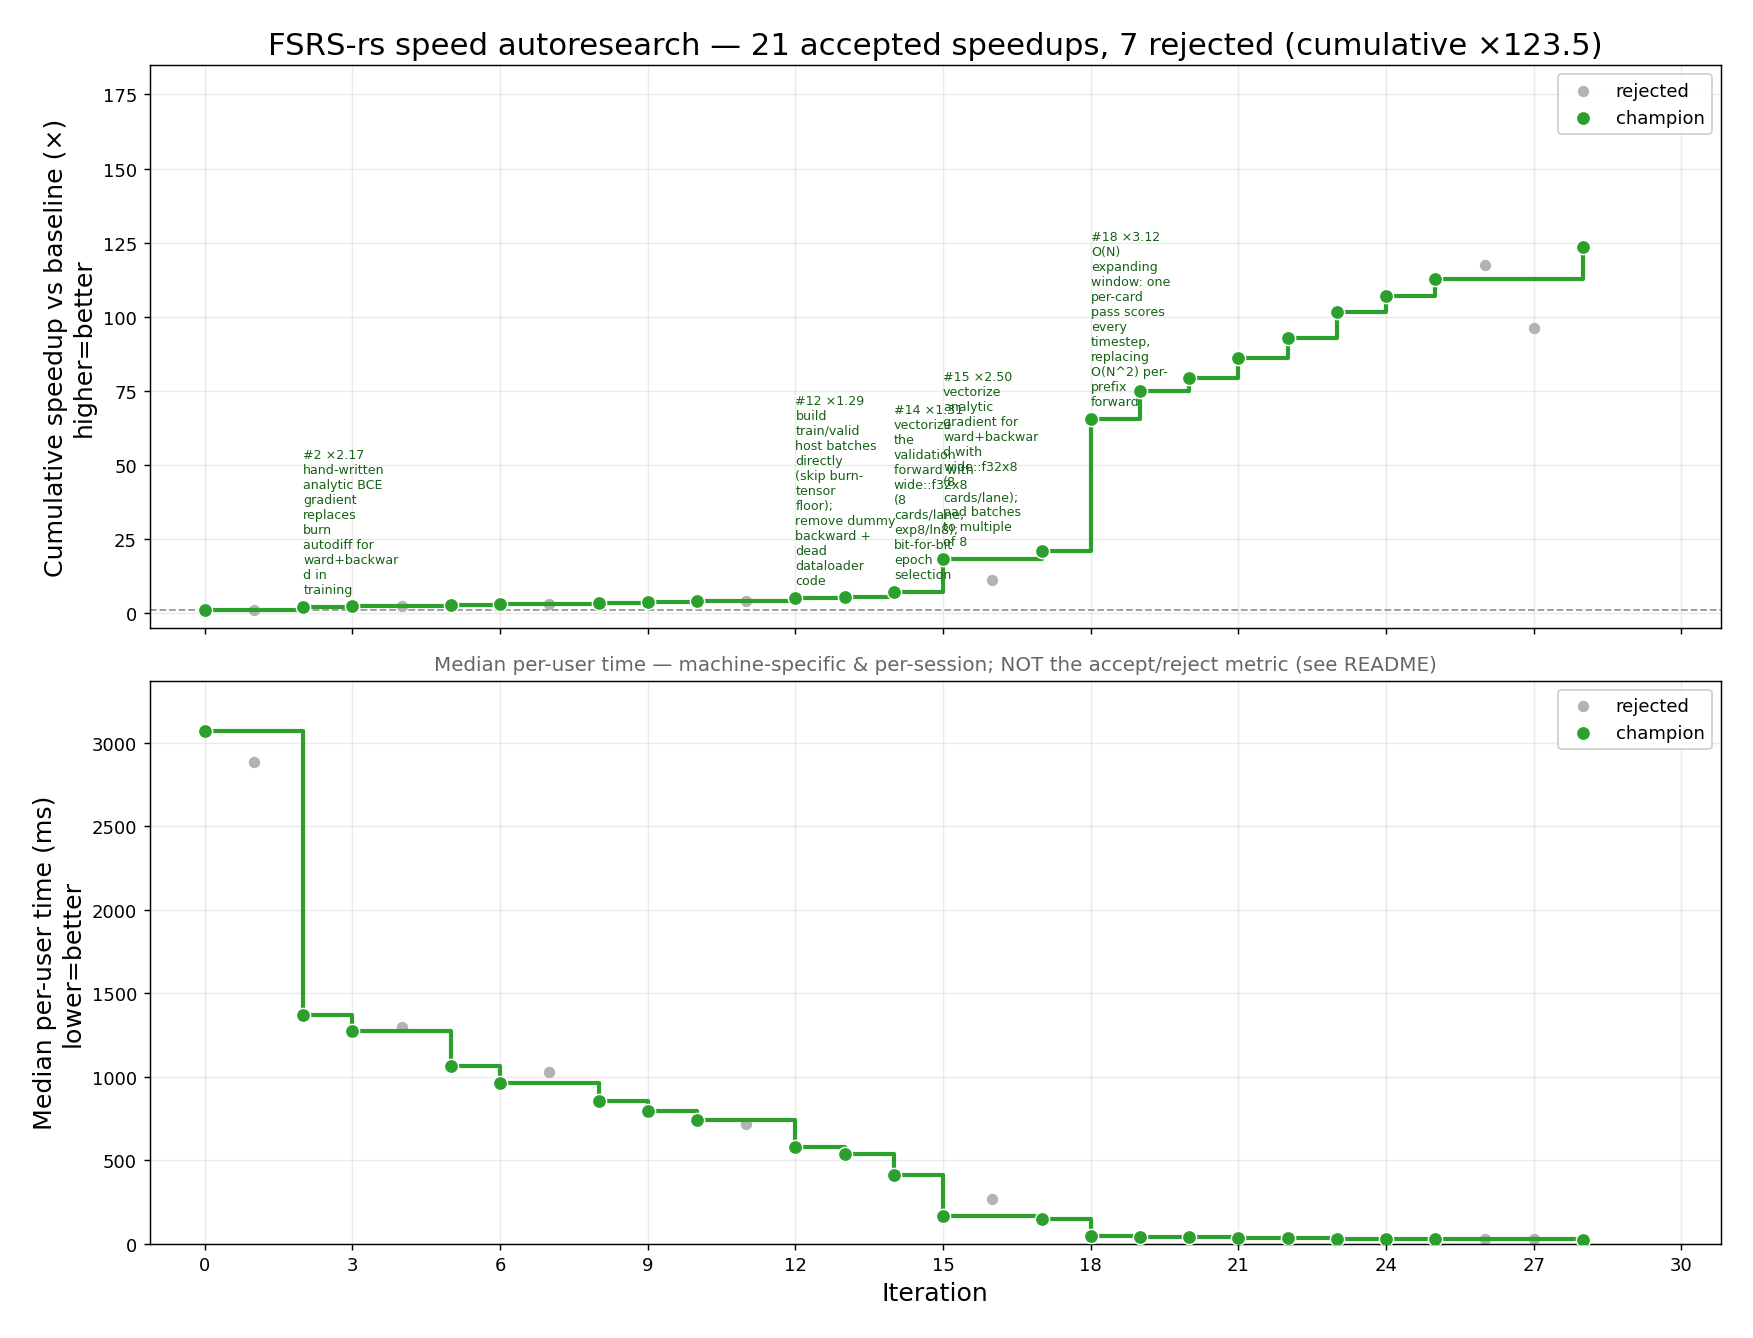
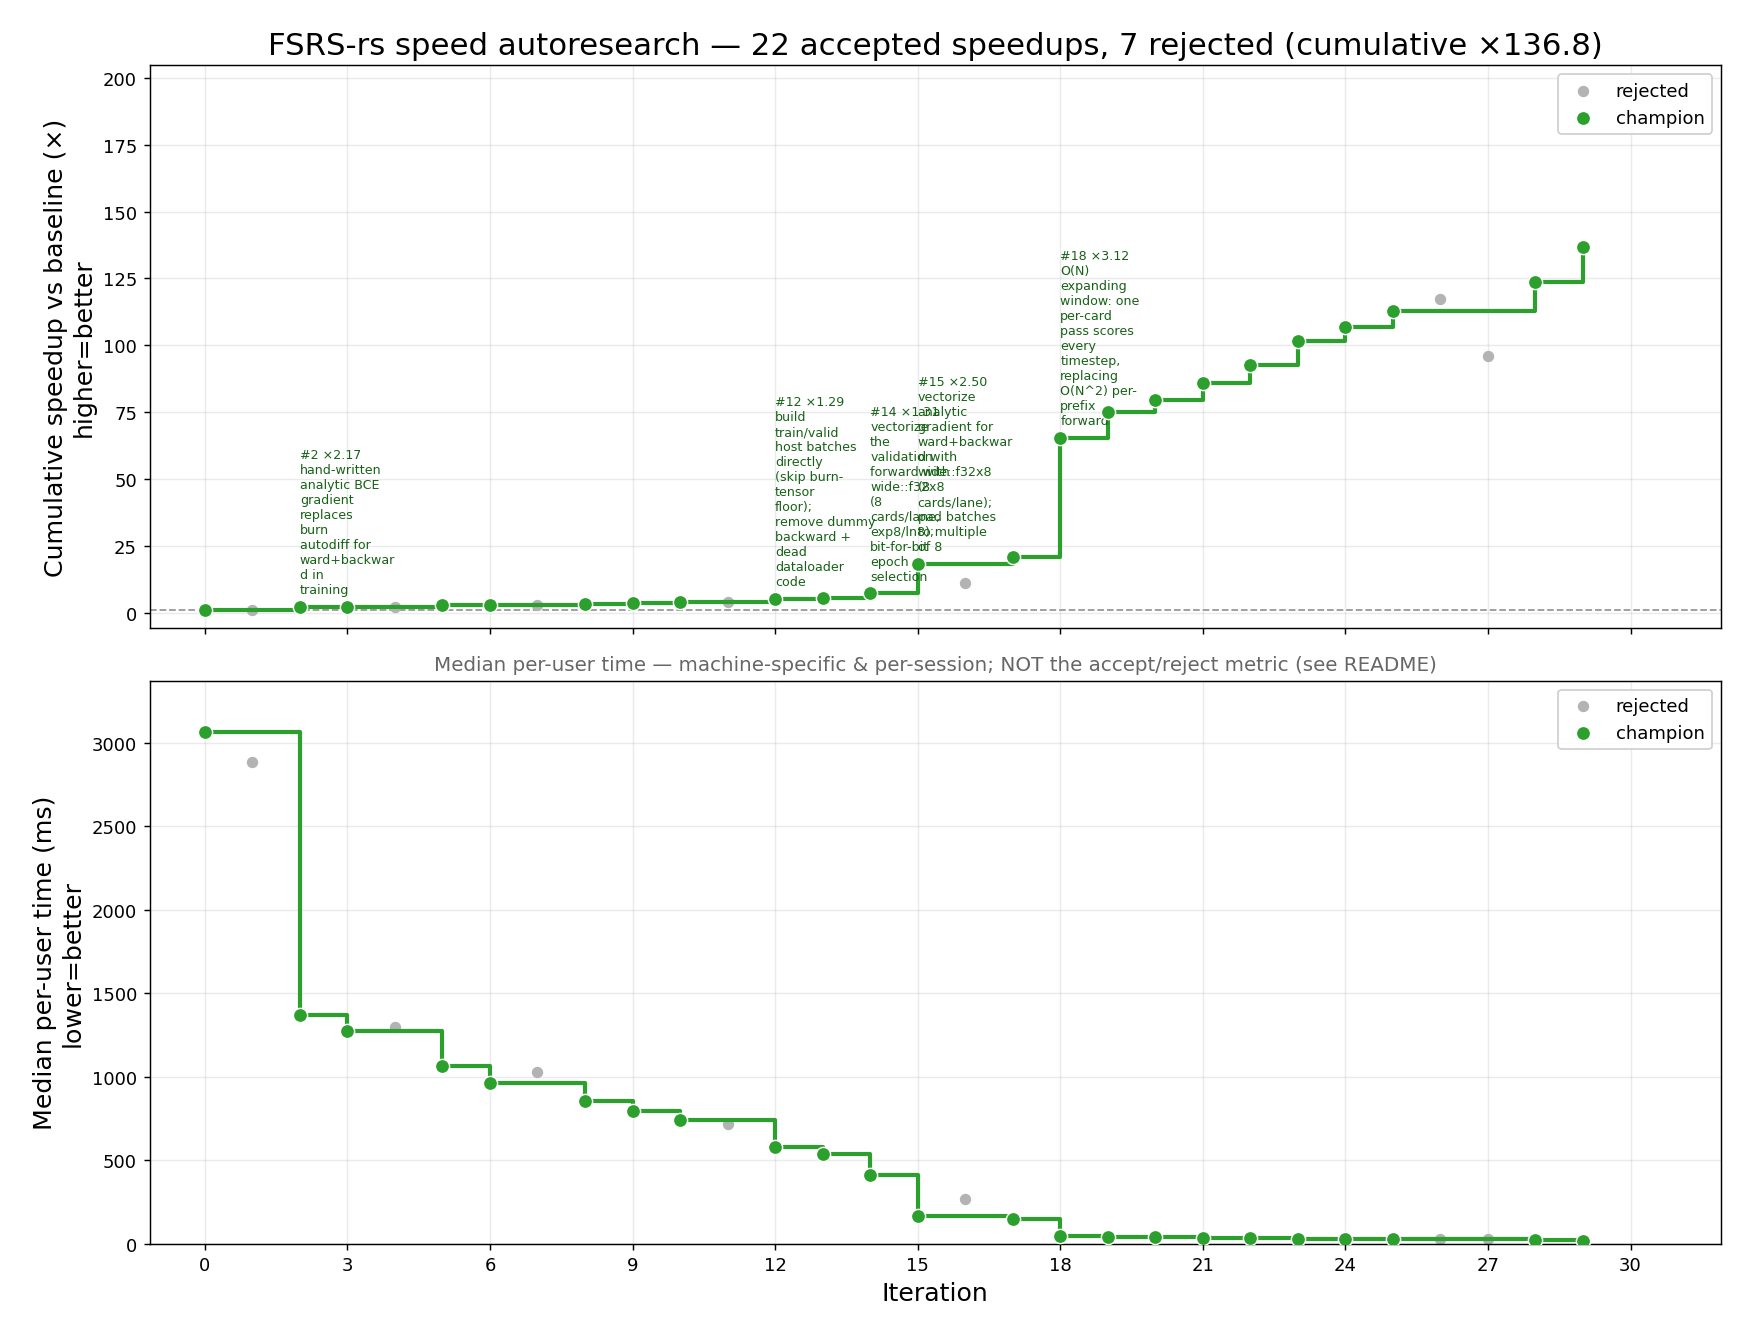
iter29 ACCEPTED: padding skip + free items on thread 2 + weight-only curve hoist (x1.107, bit-for-bit)

diff --git a/fsrs-rs/src/analytic.rs b/fsrs-rs/src/analytic.rs
@@ -103,9 +103,23 @@ struct WConsts {
     aa16: f32,   // exp(w[15]-1.5)  (short stab sinc_base, start=15)
     init: f32,   // w4 - exp(3*w5) + 1   (next_d_fwd, f32)
     exp3w5: f64, // exp(3*w5) in f64      (next_d_bwd: d(init)/d(w5))
+    // Weight-only terms of the SIMD curve's second component (decay2 = -clamp(w24) is not state-
+    // modulated), computed once per call with the same f32x8 ops curve8_fwd/bwd used per step.
+    decay2: f32x8,
+    inv2: f32x8,
+    p28: f32x8,
+    factor2: f32x8,
+    m2_live: f32x8, // clamp gate of m2 = w24 (all-ones lanes where 0.01 < w24 < 0.95)
+    p28_w26: f32x8, // p28 / base2[w26]
+    nid2: f32x8,    // -1 / decay2^2
 }
 
 fn wconsts(w: &[f32]) -> WConsts {
+    let k = f32x8::splat;
+    let m2 = k(w[24]);
+    let decay2 = k(0.0) - clamp8(m2, 0.01, 0.95);
+    let inv2 = k(1.0) / decay2;
+    let p28 = exp8::<false>(inv2 * k(w[26].ln()));
     WConsts {
         ln_w27: w[25].ln(),
         ln_w28: w[26].ln(),
@@ -113,6 +127,13 @@ fn wconsts(w: &[f32]) -> WConsts {
         aa16: (w[15] - 1.5).exp(),
         init: w[4] - (w[5] * 3.0).exp() + 1.0,
         exp3w5: (w[5] as f64 * 3.0).exp(),
+        decay2,
+        inv2,
+        p28,
+        factor2: p28 - k(1.0),
+        m2_live: m2.cmp_gt(k(0.01)) & m2.cmp_lt(k(0.95)),
+        p28_w26: p28 / k(w[26]),
+        nid2: k(0.0) - k(1.0) / (decay2 * decay2),
     }
 }
 
@@ -615,13 +636,8 @@ struct Curve8 {
     q1: f32x8,
     e1: f32x8,
     p35: f32x8,
-    m2: f32x8,
-    decay2: f32x8,
-    factor2: f32x8,
     b2: f32x8,
     r2: f32x8,
-    inv2: f32x8,
-    p28: f32x8,
     ex34: f32x8,
     weight1: f32x8,
     weight2: f32x8,
@@ -637,8 +653,7 @@ struct Curve8 {
 
 #[allow(clippy::too_many_arguments)]
 fn curve8_fwd<const FAST: bool>(
-    w: &[f32], t: f32x8, s: f32x8, sf: f32x8, d: f32x8, ln_w27: f32, ln_w28: f32,
-    ln_s: f32x8, ln_sf: f32x8,
+    w: &[f32], t: f32x8, s: f32x8, sf: f32x8, d: f32x8, wc: &WConsts, ln_s: f32x8, ln_sf: f32x8,
 ) -> Curve8 {
     let sp = |i: usize| f32x8::splat(w[i]);
     let k = f32x8::splat;
@@ -653,7 +668,7 @@ fn curve8_fwd<const FAST: bool>(
     let m1 = sp(23) * p35;
     let dm1 = clamp8(m1, 0.01, 0.95);
     let decay1 = k(0.0) - dm1;
-    let q1 = k(ln_w27) / decay1;
+    let q1 = k(wc.ln_w27) / decay1;
     let e1 = exp8::<FAST>(q1.fast_min(k(60.0)));
     let factor1 = e1 - k(1.0);
     let b1 = a * factor1 + k(1.0);
@@ -662,15 +677,10 @@ fn curve8_fwd<const FAST: bool>(
     // iter-165: decay2 no longer d-modulated (m2 = w24 plain); ex34 = exp((d-5)*(d_decay-0.3))
     // is now the TIME-SCALE inside b2.
     let ex34 = exp8::<FAST>((d - k(5.0)) * (sp(32) - k(0.3)));
-    let m2 = sp(24);
-    let dm2 = clamp8(m2, 0.01, 0.95);
-    let decay2 = k(0.0) - dm2;
-    let inv2 = k(1.0) / decay2;
-    let p28 = exp8::<FAST>(inv2 * k(ln_w28));
-    let factor2 = p28 - k(1.0);
-    let b2 = bv * factor2 * ex34 + k(1.0);
+    // decay2 / p28 = base2[w26]^inv2 / factor2 are weight-only: hoisted into wc.
+    let b2 = bv * wc.factor2 * ex34 + k(1.0);
     let ln_b2 = ln8::<FAST>(b2);
-    let r2 = exp8::<FAST>(decay2 * ln_b2);
+    let r2 = exp8::<FAST>(wc.decay2 * ln_b2);
     let p31 = exp8::<FAST>(k(-w[29]) * ln_sf);
     let weight1 = sp(27) * p31;
     // se = s_long^s_weight_power2[w30] · exp((d_weight[w31]-0.5)·(d−5)) = exp(w30·ln_s +
@@ -683,8 +693,8 @@ fn curve8_fwd<const FAST: bool>(
     let ret = num / wsum;
     let out = ret * k(1.0 - 2e-5) + k(1e-5);
     Curve8 {
-        out, a, bv, m1, decay1, factor1, b1, r1, q1, e1, p35, m2, decay2, factor2, b2, r2,
-        inv2, p28, ex34, weight1, weight2, wsum, ret, p31, se, ln_sf, ln_b1, ln_b2, ln_s,
+        out, a, bv, m1, decay1, factor1, b1, r1, q1, e1, p35, b2, r2, ex34, weight1, weight2, wsum,
+        ret, p31, se, ln_sf, ln_b1, ln_b2, ln_s,
     }
 }
 
@@ -693,7 +703,7 @@ fn curve8_fwd<const FAST: bool>(
 #[allow(clippy::too_many_arguments)]
 fn curve8_bwd(
     w: &[f32], c: &Curve8, t: f32x8, s: f32x8, sf: f32x8, d: f32x8, g_out: f32x8, g_r1_extra: f32x8,
-    gw: &mut [f32x8; 34], ln_w27: f32, ln_w28: f32,
+    gw: &mut [f32x8; 34], wc: &WConsts,
 ) -> (f32x8, f32x8, f32x8) {
     let sp = |i: usize| f32x8::splat(w[i]);
     let k = f32x8::splat;
@@ -721,19 +731,19 @@ fn curve8_bwd(
     gw[29] += g_p31 * (z - c.p31 * c.ln_sf);
     // r2 = b2^decay2 ; iter-165: b2 = bv*factor2*ex34 + 1 (ex34 = D time-scale) and
     // decay2 = -clamp(w24) is no longer d-modulated.
-    let g_b2 = g_r2 * c.decay2 * (c.r2 / c.b2);
+    let g_b2 = g_r2 * wc.decay2 * (c.r2 / c.b2);
     let mut g_decay2 = g_r2 * c.r2 * c.ln_b2;
-    let g_bv = g_b2 * c.factor2 * c.ex34;
+    let g_bv = g_b2 * wc.factor2 * c.ex34;
     let g_factor2 = g_b2 * c.bv * c.ex34;
-    let g_ex34 = g_b2 * c.bv * c.factor2;
+    let g_ex34 = g_b2 * c.bv * wc.factor2;
     g_d += g_ex34 * c.ex34 * (sp(32) - k(0.3)); // ex34 = exp((d-5)*(d_decay-0.3))
     gw[32] += g_ex34 * c.ex34 * (d - k(5.0));
     let g_p28 = g_factor2;
-    gw[26] += g_p28 * c.inv2 * (c.p28 / sp(26)); // p28 = base2[w26]^inv2
-    let g_inv2 = g_p28 * c.p28 * k(ln_w28);
-    g_decay2 += g_inv2 * (z - k(1.0) / (c.decay2 * c.decay2));
+    gw[26] += g_p28 * wc.inv2 * wc.p28_w26; // p28 = base2[w26]^inv2
+    let g_inv2 = g_p28 * wc.p28 * k(wc.ln_w28);
+    g_decay2 += g_inv2 * wc.nid2;
     let g_dm2 = z - g_decay2;
-    let g_m2 = (c.m2.cmp_gt(k(0.01)) & c.m2.cmp_lt(k(0.95))).blend(g_dm2, z);
+    let g_m2 = wc.m2_live.blend(g_dm2, z);
     gw[24] += g_m2; // m2 = w24 directly (clamp gate via c.m2)
     g_s += g_bv * (z - t / (s * s)); // bv = t/s
     // r1 = b1^decay1
@@ -746,7 +756,7 @@ fn curve8_bwd(
     let g_q1 = c.q1.cmp_lt(k(60.0)).blend(g_q1c, z);
     // q1 = ln(base1) / decay1
     let g_lw27 = g_q1 / c.decay1;
-    g_decay1 += g_q1 * (z - k(ln_w27) / (c.decay1 * c.decay1));
+    g_decay1 += g_q1 * (z - k(wc.ln_w27) / (c.decay1 * c.decay1));
     gw[25] += g_lw27 / sp(25); // ln_base1 = ln(w[25])
     let g_dm1 = z - g_decay1;
     let g_m1 = (c.m1.cmp_gt(k(0.01)) & c.m1.cmp_lt(k(0.95))).blend(g_dm1, z);
@@ -945,7 +955,7 @@ pub(crate) fn batch_loss_simd(
                 let ln_s = ln8::<false>(s_c);
                 let ln_sf = ln8::<false>(sf_c);
                 let ln_d = ln8::<false>(d_c);
-                let curve = curve8_fwd::<false>(w, dt, s_c, sf_c, d_c, wc.ln_w27, wc.ln_w28, ln_s, ln_sf);
+                let curve = curve8_fwd::<false>(w, dt, s_c, sf_c, d_c, &wc, ln_s, ln_sf);
                 let rr = curve.out;
                 let ns = stab8_fwd::<false>(w, s_c, d_c, rr, rating, 7, wc.aa7, ln_s, ln_d).out;
                 let nsf_raw = stab8_fwd::<false>(w, sf_c, d_c, curve.r1, rating, 15, wc.aa16, ln_sf, ln_d).out;
@@ -961,7 +971,7 @@ pub(crate) fn batch_loss_simd(
         }
         let dts = load8(delta_ts, c0);
         let r = clamp8(
-            curve8_fwd::<false>(w, dts, s, sf, d, wc.ln_w27, wc.ln_w28, ln8::<false>(s), ln8::<false>(sf)).out,
+            curve8_fwd::<false>(w, dts, s, sf, d, &wc, ln8::<false>(s), ln8::<false>(sf)).out,
             MIN_R,
             MAX_R,
         );
@@ -1068,7 +1078,7 @@ fn step8_fwd<const FAST: bool>(
         let ln_last_s = ln8::<FAST>(last_s);
         let ln_last_sf = ln8::<FAST>(last_sf);
         let ln_last_d = ln8::<FAST>(last_d);
-        let curve = curve8_fwd::<FAST>(w, dt, last_s, last_sf, last_d, wc.ln_w27, wc.ln_w28, ln_last_s, ln_last_sf);
+        let curve = curve8_fwd::<FAST>(w, dt, last_s, last_sf, last_d, wc, ln_last_s, ln_last_sf);
         let r = curve.out;
         let r1 = curve.r1; // short component recall — drives the short-trace update (iter-71)
         let slow = stab8_fwd::<FAST>(w, last_s, last_d, r, rating, 7, wc.aa7, ln_last_s, ln_last_d);
@@ -1153,7 +1163,7 @@ fn step8_bwd(
             // curve.out adjoint = long-stab r + windowed loss adjoint + next_d r; curve.r1 = short-stab r.
             let (g_ls_d, g_lsf_d, g_ld_d) = curve8_bwd(
                 w, curve, *dt, *last_s, *last_sf, *last_d, g_r_long + g_r_loss + g_r_nextd, g_r1_short,
-                gw, wc.ln_w27, wc.ln_w28,
+                gw, wc,
             );
             let g_last_s = g_ls_a + g_ls_d + g_last_s_extra;
             let g_last_sf = g_lsf_b + g_lsf_d + g_last_sf_extra;
@@ -1213,7 +1223,7 @@ fn loss_and_grad_range_simd(
         let wt = load8(weights, c0);
         let ln_s = ln8::<false>(s);
         let ln_sf = ln8::<false>(sf);
-        let fc = curve8_fwd::<false>(w, dts, s, sf, d, wc.ln_w27, wc.ln_w28, ln_s, ln_sf);
+        let fc = curve8_fwd::<false>(w, dts, s, sf, d, &wc, ln_s, ln_sf);
         let r_raw = fc.out;
         let r = clamp8(r_raw, MIN_R, MAX_R);
         // (loss VALUE skipped — see the fn doc; training discards it, validation uses batch_loss_simd.)
@@ -1222,7 +1232,7 @@ fn loss_and_grad_range_simd(
         let g_rraw = (r_raw.cmp_gt(k(MIN_R)) & r_raw.cmp_lt(k(MAX_R))).blend(g_r, k(0.0));
         let mut gw_g = [f32x8::splat(0.0); 34];
         let (mut g_s, mut g_sf, mut g_d) =
-            curve8_bwd(w, &fc, dts, s, sf, d, g_rraw, f32x8::splat(0.0), &mut gw_g, wc.ln_w27, wc.ln_w28);
+            curve8_bwd(w, &fc, dts, s, sf, d, g_rraw, f32x8::splat(0.0), &mut gw_g, &wc);
         for t in (0..sl).rev() {
             // O(N^2) path: the only loss is the final curve (handled above), so no per-step adjoint.
             let (gs0, gd0, gsf0) =
@@ -1305,6 +1315,13 @@ pub(crate) fn card_loss_and_grad_simd(
     for g in 0..n_groups {
         let c0 = g * 8;
         caches.clear();
+        // This group's own length: trailing timesteps where all 8 lanes are padding (rating 0; real
+        // ratings are >= 1) carry weight 0 and only pass the state through, so they add exactly 0
+        // to the gradient — skip them (bit-for-bit). Min 2 = the shortest card.
+        let mut seq_len = seq_len;
+        while seq_len > 2 && load8(r_hist, (seq_len - 1) * batch + c0).reduce_add() == 0.0 {
+            seq_len -= 1;
+        }
         let (mut s, mut d, mut sf) = (z, z, z);
         // Forward over every step EXCEPT the last (full step + cache). The last step's stability/
         // next-difficulty update feeds no t+1, so we compute its curve only (just below) — exactly
@@ -1326,7 +1343,7 @@ pub(crate) fn card_loss_and_grad_simd(
         let (ls, lsf, ld) =
             (clamp8(s, S_MIN, S_MAX), clamp8(sf, S_MIN, S_MAX), clamp8(d, D_MIN, D_MAX));
         let fc_last = curve8_fwd::<false>(
-            w, dt_last, ls, lsf, ld, wc.ln_w27, wc.ln_w28, ln8::<false>(ls), ln8::<false>(lsf),
+            w, dt_last, ls, lsf, ld, &wc, ln8::<false>(ls), ln8::<false>(lsf),
         );
         // Reverse pass. The final state's adjoint is 0, so at the last step the stab/next_d backward
         // all multiply 0 -> only curve8_bwd(loss-adjoint) contributes. BIT-FOR-BIT identical to a full
@@ -1334,7 +1351,7 @@ pub(crate) fn card_loss_and_grad_simd(
         let mut gw_g = [f32x8::splat(0.0); 34];
         let g_rraw_last = g_r_loss_at(fc_last.out, lbase);
         let (g_ls, g_lsf, g_ld) = curve8_bwd(
-            w, &fc_last, dt_last, ls, lsf, ld, g_rraw_last, f32x8::splat(0.0), &mut gw_g, wc.ln_w27, wc.ln_w28,
+            w, &fc_last, dt_last, ls, lsf, ld, g_rraw_last, f32x8::splat(0.0), &mut gw_g, &wc,
         );
         let mut g_s = (s.cmp_gt(k(S_MIN)) & s.cmp_lt(k(S_MAX))).blend(g_ls, z);
         let mut g_d = (d.cmp_gt(k(D_MIN)) & d.cmp_lt(k(D_MAX))).blend(g_ld, z);
@@ -1387,7 +1404,7 @@ pub(crate) fn card_loss_simd(
                     (clamp8(s, S_MIN, S_MAX), clamp8(sf, S_MIN, S_MAX), clamp8(d, D_MIN, D_MAX));
                 clamp8(
                     curve8_fwd::<false>(
-                        w, dt.fast_max(z), ls, lsf, ld, wc.ln_w27, wc.ln_w28,
+                        w, dt.fast_max(z), ls, lsf, ld, &wc,
                         ln8::<false>(ls), ln8::<false>(lsf),
                     )
                     .out,

diff --git a/fsrs-rs/src/training.rs b/fsrs-rs/src/training.rs
@@ -1343,13 +1343,20 @@ pub fn compute_parameters(
     if let Some(lr) = std::env::var("FSRS_LR").ok().and_then(|s| s.trim().parse().ok()) {
         config.learning_rate = lr;
     }
-    let (train_host, total_size) = match &train_card_ids {
-        Some(train_card_ids) => build_host_batches_carded(
-            &train_set,
-            train_card_ids,
-            config.batch_size,
-            config.max_seq_len,
-        ),
+    // The windowed path frees the prefix-items (one heap block each, ~10% of a large user's time)
+    // on the second thread (constraint 2) while this one trains; joined before returning.
+    let mut dropper = None;
+    let (train_host, total_size) = match train_card_ids {
+        Some(train_card_ids) => {
+            let host = build_host_batches_carded(
+                &train_set,
+                &train_card_ids,
+                config.batch_size,
+                config.max_seq_len,
+            );
+            dropper = Some(std::thread::spawn(move || drop((train_set, train_card_ids))));
+            host
+        }
         None => {
             let mut weighted_train_set = recency_weighted_fsrs_items_tuned(train_set);
             weighted_train_set.retain(|item| item.item.reviews.len() <= config.max_seq_len);
@@ -1375,6 +1382,9 @@ pub fn compute_parameters(
         progress.clone().map(|p| ProgressCollector::new(p, 0)),
     );
 
+    if let Some(dropper) = dropper {
+        dropper.join().unwrap();
+    }
     let optimized_parameters = model
         .inspect_err(|_e| {
             finish_progress();

diff --git a/result/history.md b/result/history.md
@@ -33,6 +33,7 @@ Accept metric: **median per-user speed_ratio ≥ 1.05** (constraint 12) AND **sp
 | 26 | 27 | 26 | 1.041 | 7257 | 7285 | 1.004 | 1.010 | ✓ | rejected | Per-group padding skip: each group runs only to its longest card, not the batch-wide seq_len |
 | 27 | 24 | 29 | 0.852 | 10502 | 10516 | 1.001 | 1.003 | ✓ | rejected | Branchless step: compute both init and update paths, mask-select the first review |
 | 28 | 22 | 23 | 1.096 | 10502 | 10568 | 1.006 | 1.016 | ✓ | accepted | Windowed batches built from item headers: no normalize pass, regrouping, or per-item copies |
+| 29 | 21 | 17 | 1.107 | 10568 | 10601 | 1.003 | 1.008 | ✓ | accepted | Stack: per-group padding skip, free input items on thread 2, hoist weight-only curve terms |
 
-**Cumulative speed_ratio (product of accepted): ×123.535** — upward-biased (winner's curse); anchor periodically vs iter-0 baseline.
+**Cumulative speed_ratio (product of accepted): ×136.753** — upward-biased (winner's curse); anchor periodically vs iter-0 baseline.
 
